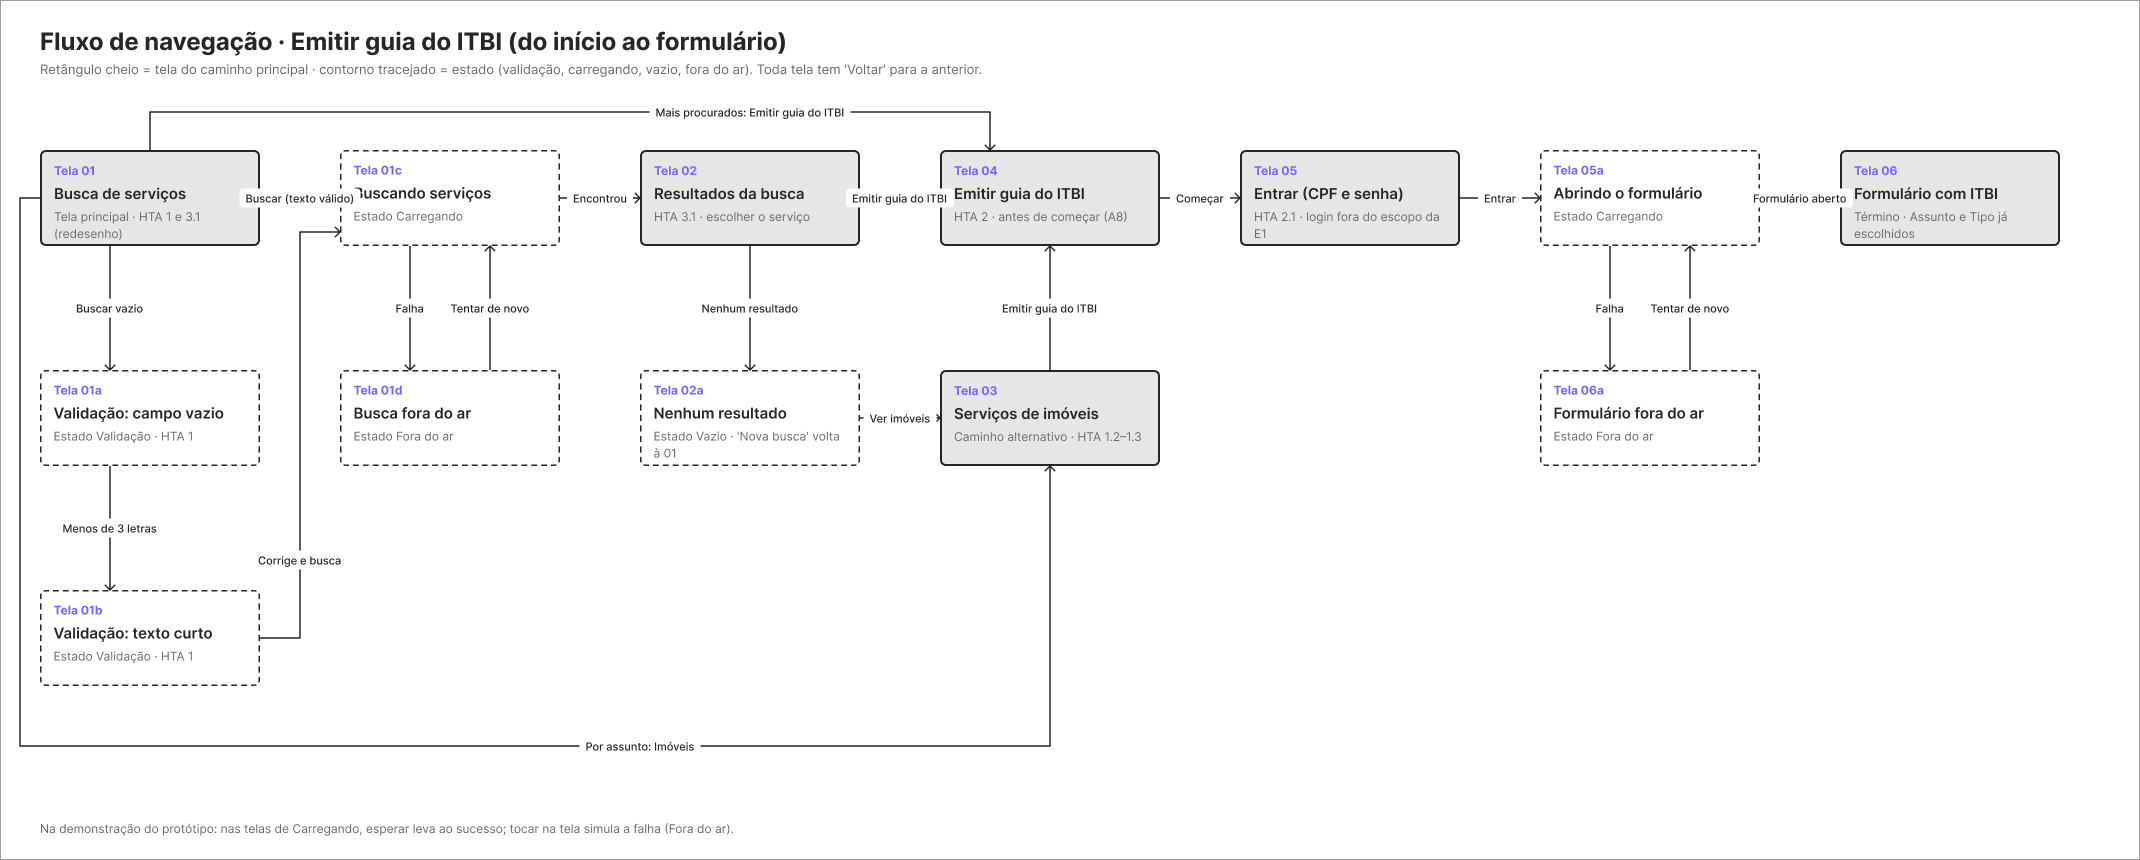
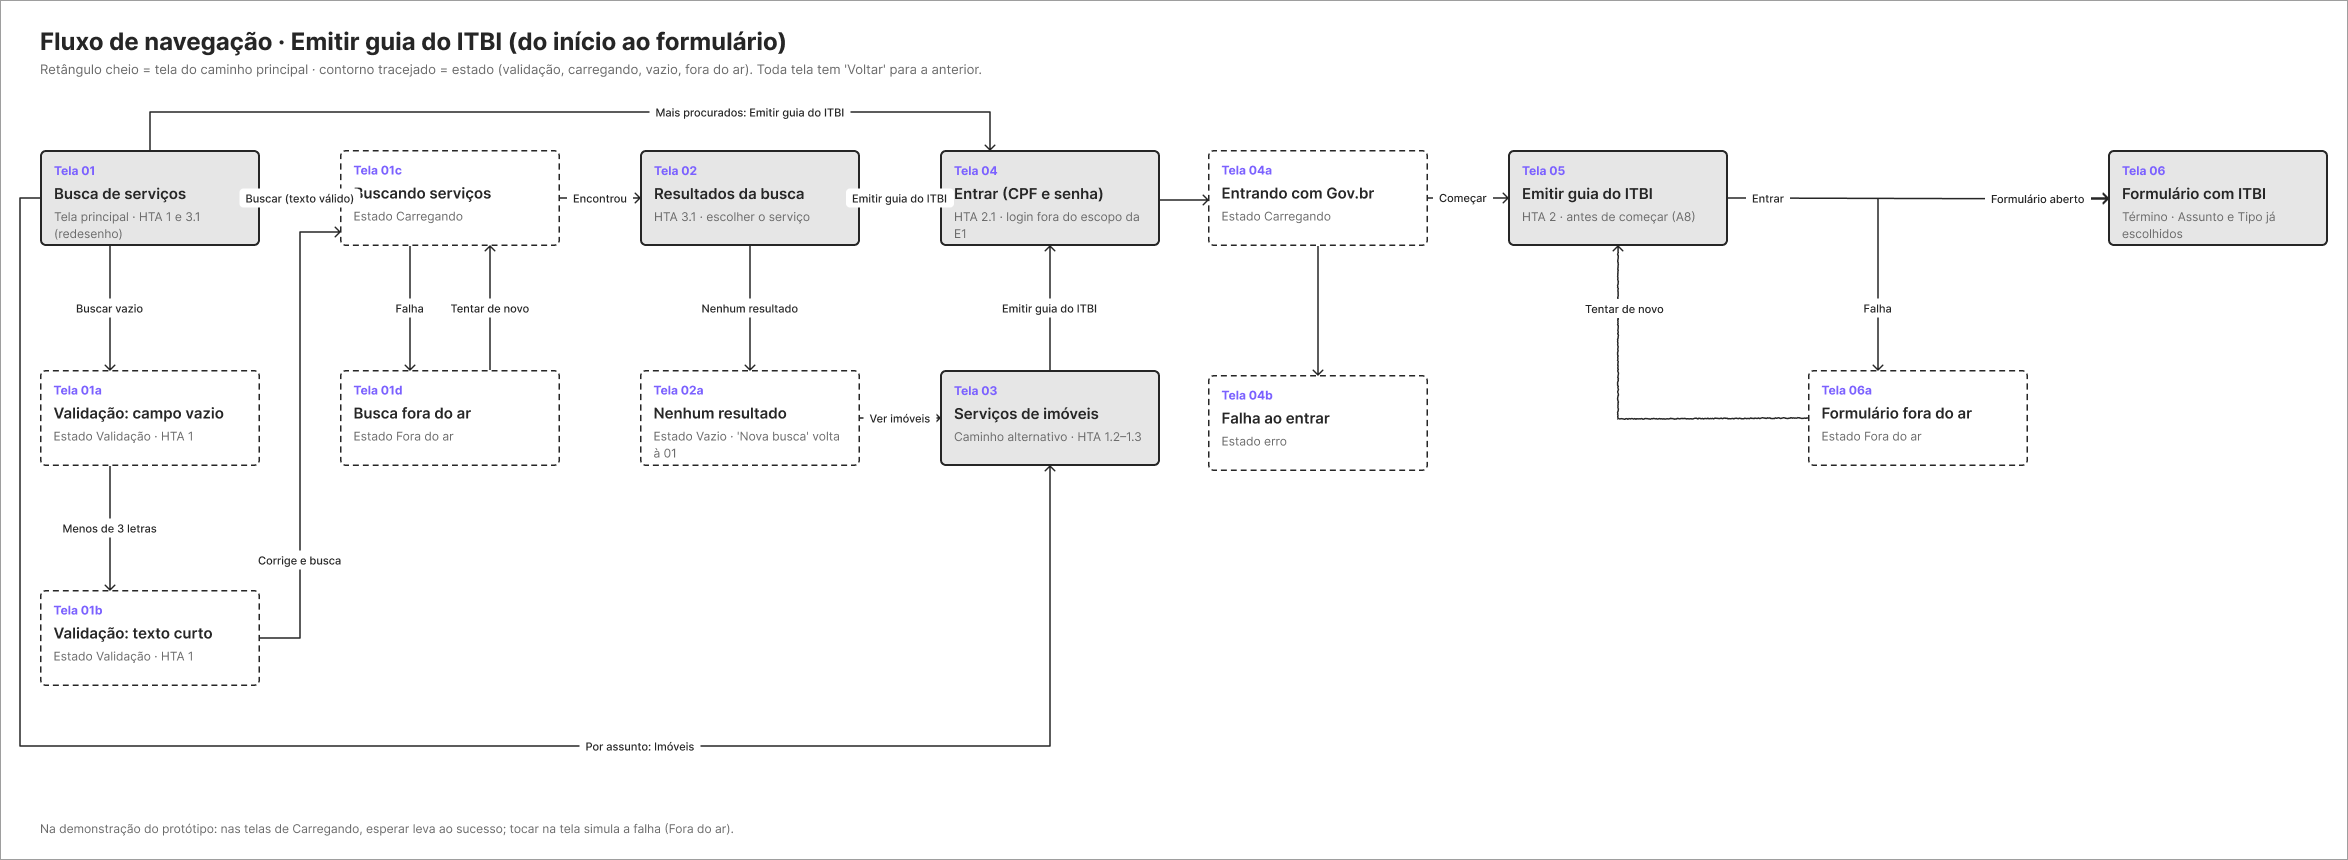
fix: Ajusta HTAs da seção 3

diff --git a/entrega2/memorial/UCEngUs_E2_GrupoB.tex b/entrega2/memorial/UCEngUs_E2_GrupoB.tex
@@ -327,22 +327,20 @@ Foram desenvolvidas telas para representação do caminho de sucesso e os caminh
   \centering\footnotesize
   \begin{tabularx}{\textwidth}{|P{1.5cm}|Y|P{2.0cm}|P{4.4cm}|}\hline
     Tela & Nome & Etapa da HTA & Tipo (sucesso, alternativo, erro, estado) \\\hline
-    Tela 01 & Busca de serviços & \preencher{} & Sucesso \\\hline
-    Tela 01a & Validação: campo vazio & \preencher{} & Estado (validação) \\\hline
-    Tela 01b & Validação: texto curto & \preencher{} & Estado (validação) \\\hline
+    Tela 01 & Busca de serviços & HTA 1 e 3.1 & Sucesso \\\hline
+    Tela 01a & Validação: campo vazio & HTA 1 & Estado (validação) \\\hline
+    Tela 01b & Validação: texto curto & HTA 1 & Estado (validação) \\\hline
     Tela 01c & Carregando: buscando serviços & \preencher{} & Estado (carregando) \\\hline
     Tela 01d & Fora do ar: busca indisponível & \preencher{} & Erro (indisponibilidade) \\\hline
-    Tela 02 & Resultados da busca & \preencher{} & Sucesso \\\hline
+    Tela 02 & Resultados da busca & HTA 3.1 & Sucesso \\\hline
     Tela 02b & Vazio: nenhum resultado & \preencher{} & Erro (nenhum resultado encontrado) \\\hline
-    Tela 03 & Servições de imóveis (caminho alternativo) & \preencher{} & Alternativo \\\hline
-    Tela 04 & Entrar com gov.br (login único) & \preencher{} & Sucesso \\\hline
+    Tela 03 & Serviços de imóveis (caminho alternativo) & HTA 1.2-1.3 & Alternativo \\\hline
+    Tela 04 & Entrar com gov.br (login único) & HTA 2 & Sucesso \\\hline
     Tela 04a & Carregando: entrando com gov.br & \preencher{} & Estado (carregamento) \\\hline
     Tela 04b & Erro: login gov.br não concluído & \preencher{} & Erro \\\hline
-    Tela 05 & Emitir guia do ITBI: antes de começar & \preencher{} & Sucesso \\\hline
-    Tela 06 & Formulário com ITBI já escolhido (término) & \preencher{} & Sucesso \\\hline
+    Tela 05 & Emitir guia do ITBI: antes de começar & HTA 2 & Sucesso \\\hline
+    Tela 06 & Formulário com ITBI já escolhido (término) &  & Sucesso \\\hline
     Tela 06a & Fora do ar: formulário indisponível & \preencher{} & Erro (indisponibilidade) \\\hline
-    Tela 06b & Validação: campos com erro & \preencher{} & Estado (validação) \\\hline
-    Tela 06c & Sucesso: pedido registrado & \preencher{} & Sucesso \\\hline
   \end{tabularx}
   \fonte{\autores}
   \nota{A mesma numeração é usada no PDF das telas, nos quadros de decisão e na matriz.}
